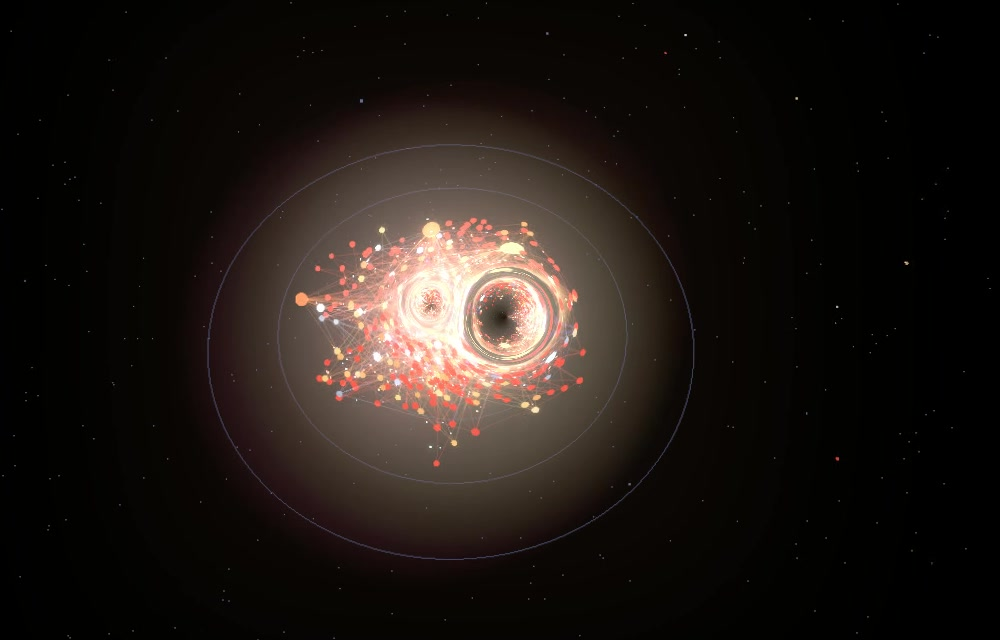
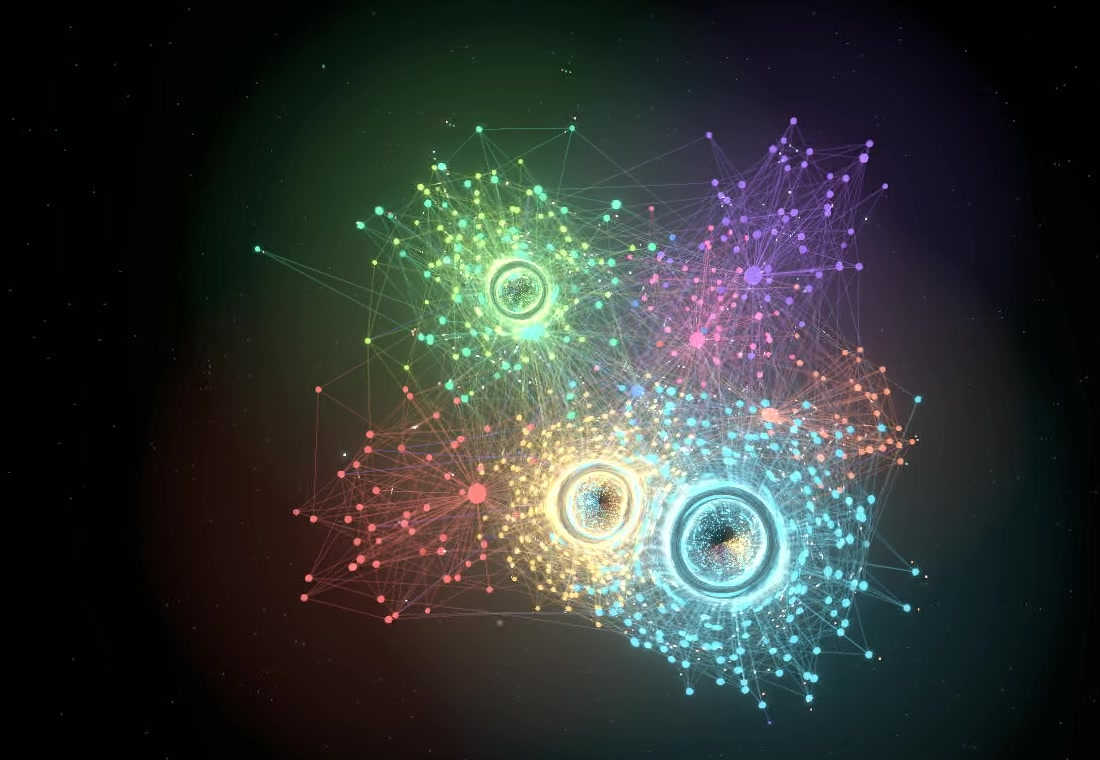
Update README media from the 780-note demo vault
New time travel GIF and still image with folder colors, nebulae and
black holes.

diff --git a/README.md b/README.md
@@ -4,13 +4,13 @@ A 3D graph view for [Obsidian](https://obsidian.md) that looks like a galaxy. No
 
 ![A vault as a galaxy: folders are colored star clusters, hubs are bright cores](docs/hero.jpg)
 
-Time travel: watch the vault grow note by note.
+Time travel: watch the vault grow note by note, from the first note to today.
 
-![Time travel through a vault of 2,600 notes](docs/timelapse.gif)
+![Time travel through a vault of 780 notes](docs/timelapse.gif)
 
-Expansion layout with age colors: the oldest notes sit outside, the freshest in the core, and the biggest hubs turn into black holes with gravitational lensing.
+The biggest hubs turn into black holes with an accretion disk and gravitational lensing. Folders appear as nebulae in their own colors.
 
-![Black holes and expansion layout](docs/black-holes.jpg)
+![A vault of 780 notes with three black holes](docs/black-holes.jpg)
 
 *All images show a fictional demo vault.*
 
